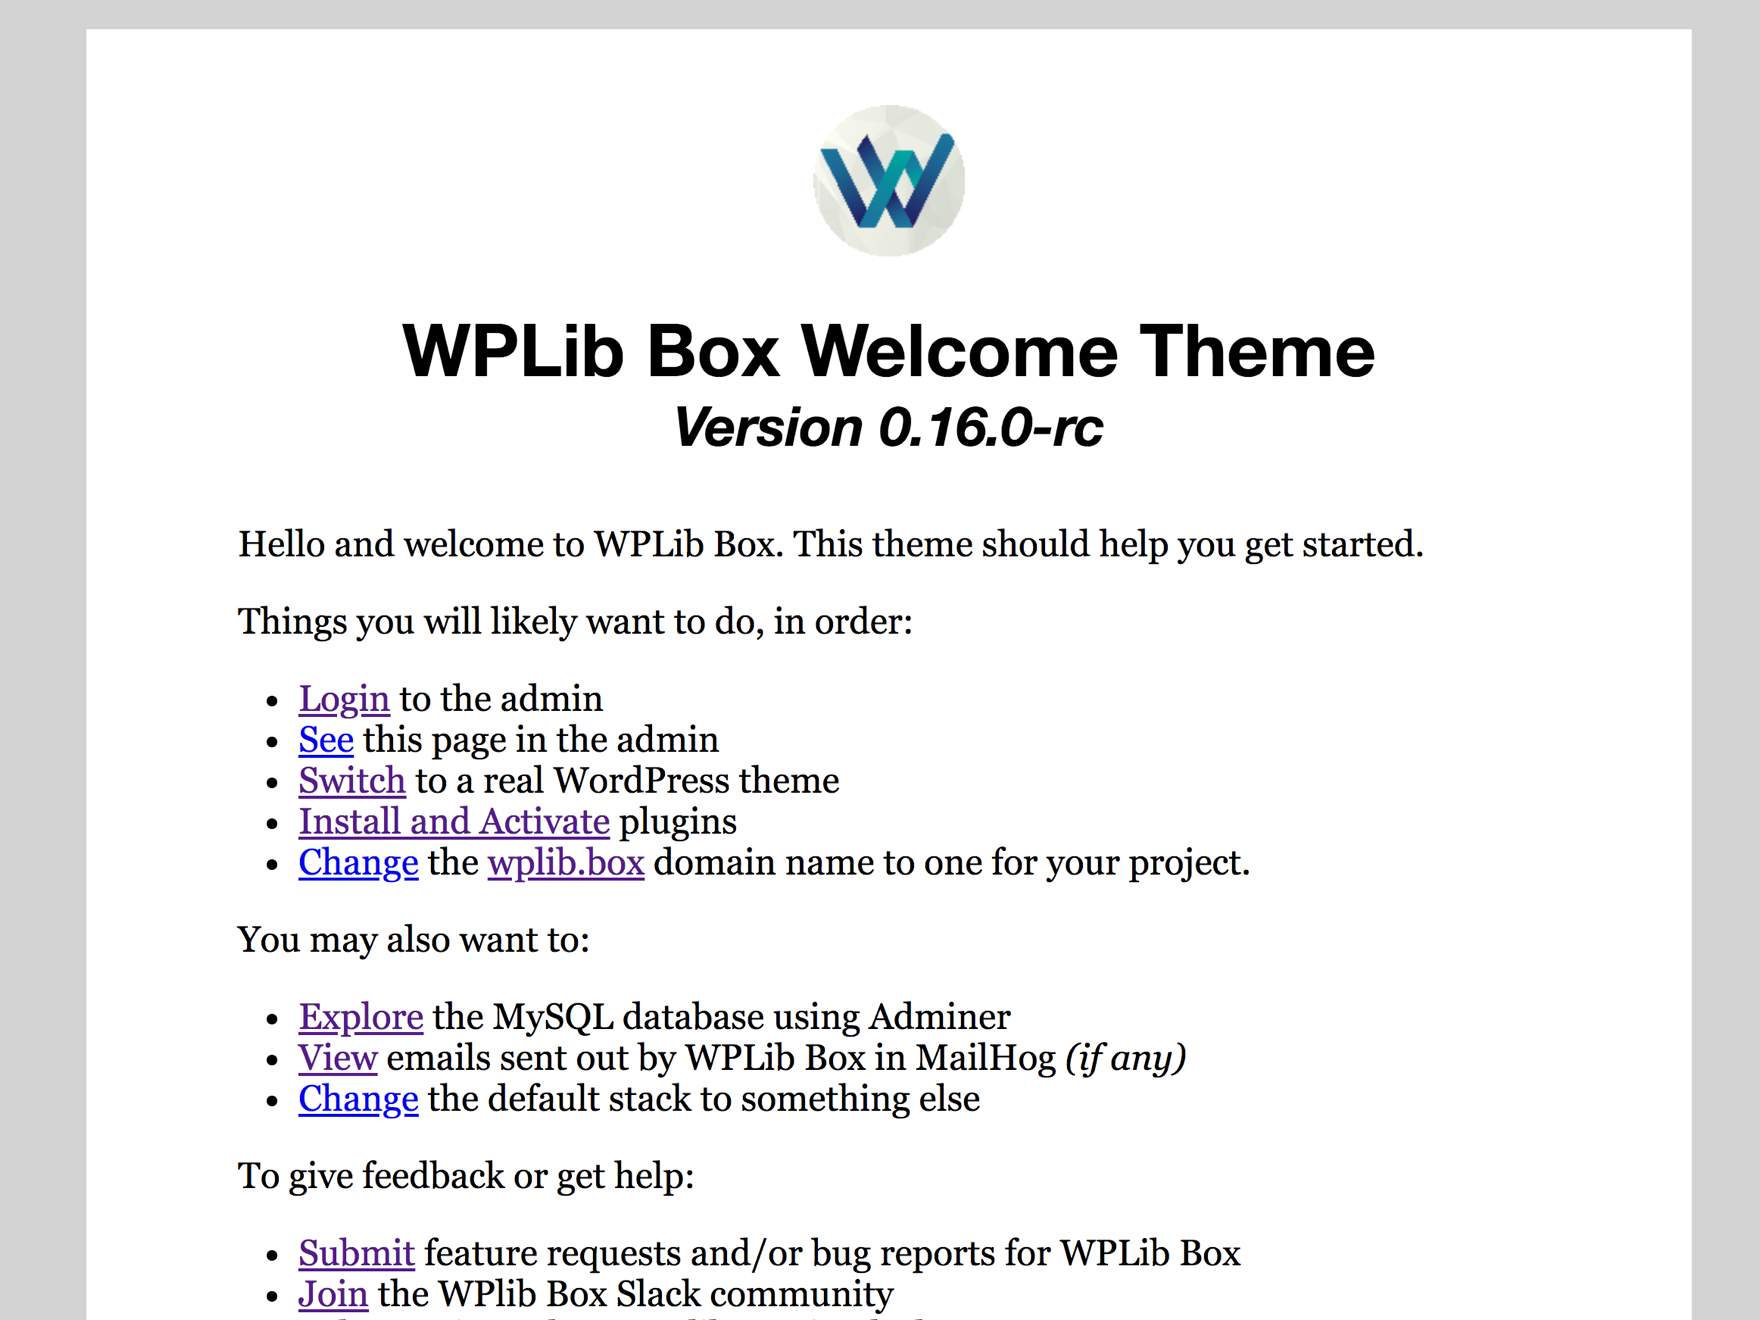
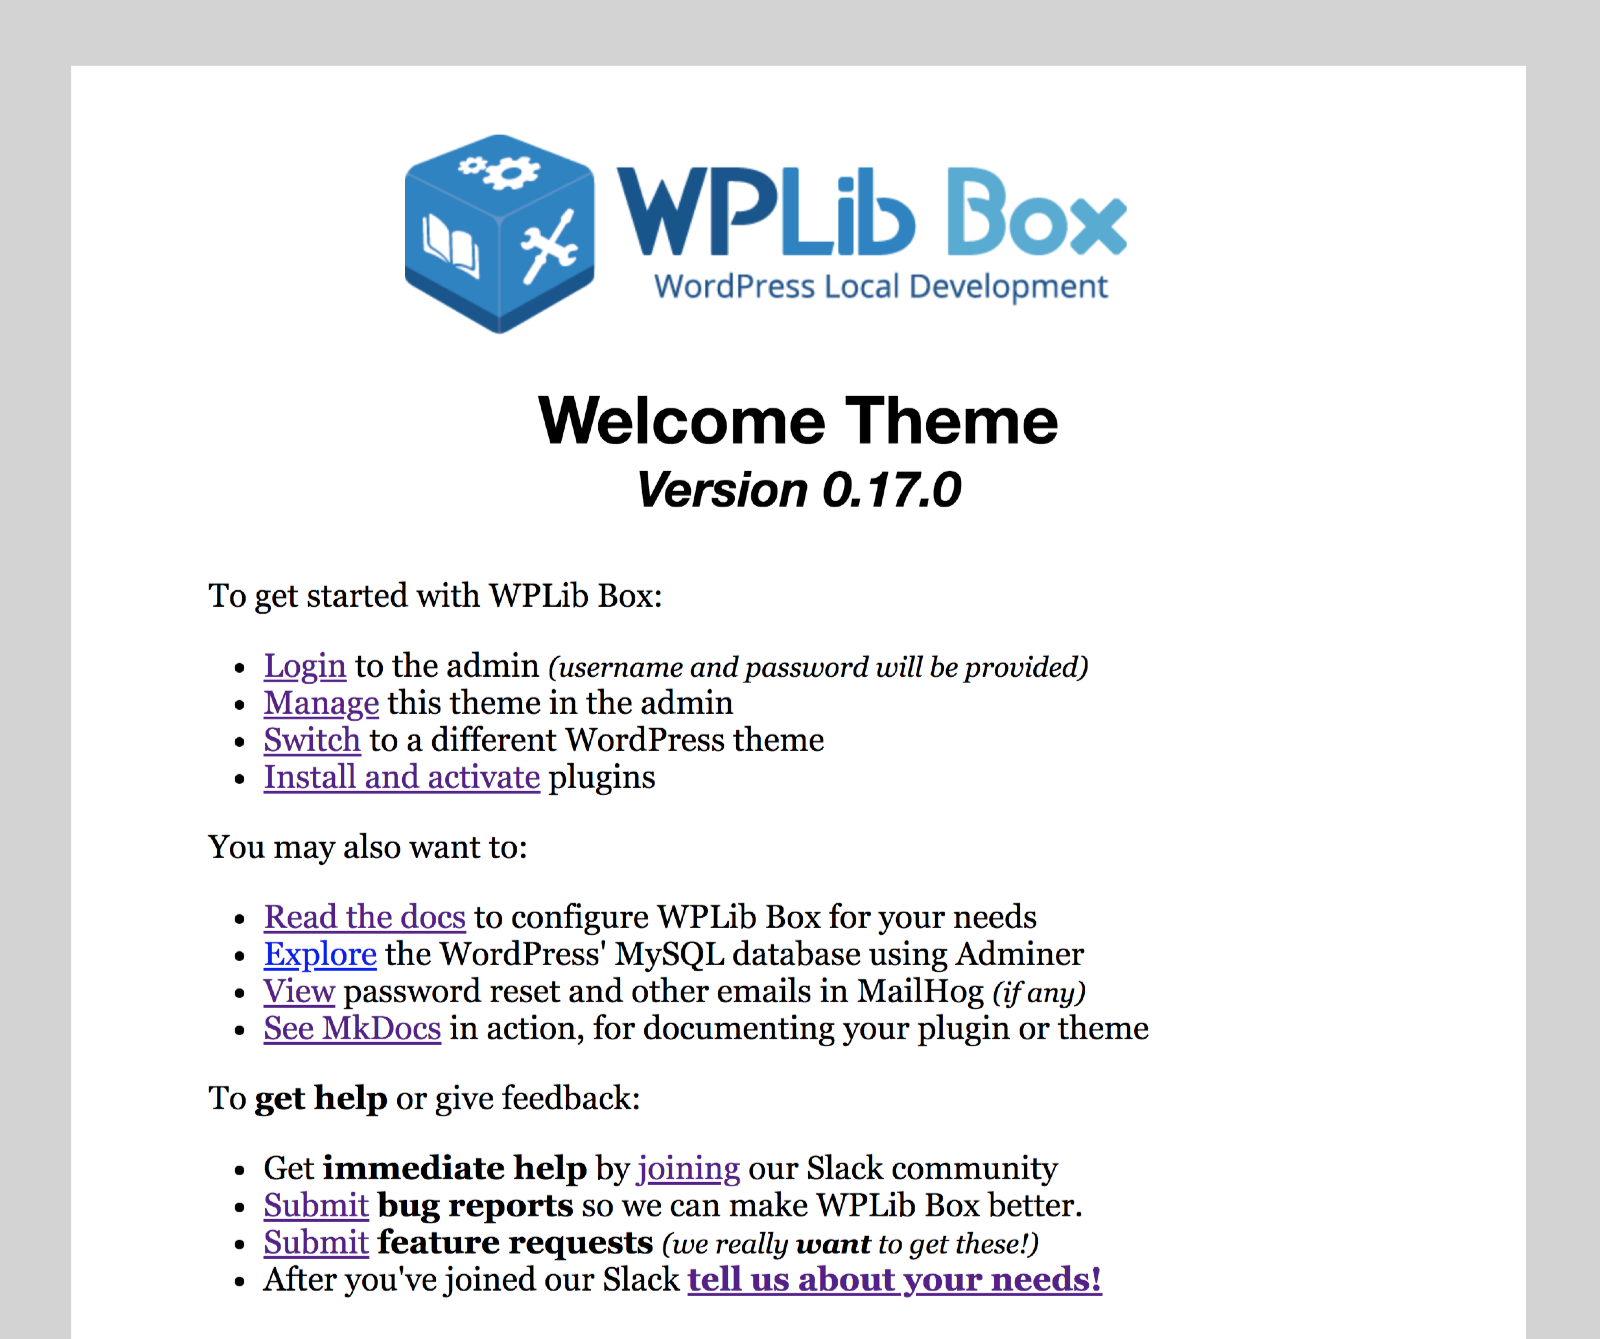
Wordsmithed the starter theme.

Changed region(s): [[0.0312, 0.0, 0.9688, 1.0]]

diff --git a/www/wp-content/themes/wplib-box-welcome/index.php b/www/wp-content/themes/wplib-box-welcome/index.php
@@ -18,6 +18,7 @@ h1,h2 { font-family: "Helvetica Neue", Arial, Helvetica, "Nimbus Sans L", sans-s
 h1 {margin-bottom:0;}
 h2 {margin:0 auto 42px;font-style: italic;}
 #content { padding: 0 50px; margin: 0 auto; text-align: left;}
+em { font-size:0.85em; }
 </style>
 </head>
 <body>
@@ -27,31 +28,36 @@ h2 {margin:0 auto 42px;font-style: italic;}
         <h1>Welcome Theme</h1>
         <h2>Version 0.17.0</h2>
         <div id="content">
-            <p>Hello and welcome to WPLib Box. This theme should help you get started.</p>
-            <p>Things you will likely want to do, in order:</p>
+            <p>To get started with WPLib Box:</p>
             <ul>
-                <li><a href="<?php echo site_url( '/wp-login.php' ); ?>" target="_blank">Login</a> to the admin</li>
-                <li><a href="#" target="_blank">See</a> this page in the admin</li>
-                <li><a href="<?php echo admin_url( '/themes.php' ); ?>" target="_blank">Switch</a> to a real WordPress theme</li>
+                <li><a href="<?php echo site_url( '/wp-login.php' ); ?>" target="_blank">Login</a> to the admin <em>(username and password will be provided)</em></li>
+                <li><a href="<?php echo site_url( '/wp-admin/themes.php?theme=wplib-box-welcome' ); ?>" target="_blank">Manage</a> this theme in the admin</li>
+                <li><a href="<?php echo admin_url( '/themes.php' ); ?>" target="_blank">Switch</a> to a different WordPress theme</li>
                 <li><a href="<?php echo admin_url( '/plugins.php' ); ?>" target="_blank">Install and activate</a> plugins</li>
+                <!--
                 <li><a href="#" target="_blank">Change</a> the <a href="http://wplib.box" target="_blank">wplib.box</a> domain name to one for your project.</li>
                 <li><a href="#" target="_blank">Disconnect</a> the <a href="https://github.com/wplib/wplib-box" target="_blank">WPLib Box GitHub repository</a> from your project</li>
+                -->
             </ul>
 
-            <p>You may also need to:</p>
+            <p>You may also want to:</p>
             <ul>
+                <li><a href="http://wplib.org/box/" target="_blank">Read the docs</a> to configure WPLib Box for your needs</li>
                 <li><a href="http://adminer.wplib.box?server=172.18.0.1&username=wordpress&db=wordpress" target="_blank">Explore</a> the WordPress' MySQL database using Adminer</li>
-                <li><a href="http://mailhog.wplib.box" target="_blank">View</a> emails sent out by WPLib Box in MailHog <em>(if any)</em></li>
-                <li><a href="#" target="_blank">Enable</a> a different stack <em>(vs. Nginx/MySQL/PHP7/Redis)</em></li>
-                <li><a href="#" target="_blank">Manage</a> your project dependencies using <a href="https://getcomposer.org" target="_blank">Composer</a></li>
-                <li><a href="http://docs.wplib.box" target="_blank">See MkDocs</a> in action, for documenting your plugin or theme.</li>
+                <li><a href="http://mailhog.wplib.box" target="_blank">View</a> password reset and other emails in MailHog <em>(if any)</em></li>
+                <li><a href="http://docs.wplib.box" target="_blank">See MkDocs</a> in action, for documenting your plugin or theme</li>
+                <!--
+                <li><a href="#" target="_blank">Enable</a> a different stack <em>(vs. Nginx/MySQL/PHP7/Redis)</em> <em>(NOT IMPLEMENTED YET)</em></li>
+                <li><a href="#" target="_blank">Manage</a> your project dependencies using <a href="https://getcomposer.org" target="_blank">Composer</a> <em>(NOT IMPLEMENTED YET)</em></li>
+                -->
             </ul>
 
-            <p>And to give feedback or get help:</p>
+            <p>To <strong>get help</strong> or give feedback:</p>
             <ul>
-                <li><a href="https://github.com/wplib/wplib-box/issues/new" target="_blank">Submit</a> feature requests and/or bug reports for WPLib Box</li>
-                <li><a href="https://launchpass.com/wplib" target="_blank">Join</a> the WPLib Box Slack community</li>
-                <li><a href="http://wplib.slack.com" target="_blank">Ask questions</a> about WPLib Box in Slack</li>
+                <li>Get <strong>immediate help</strong> by <a href="https://launchpass.com/wplib" target="_blank">joining</a> our Slack community</li>
+                <li><a href="https://github.com/wplib/wplib-box/issues/new" target="_blank">Submit</a> <strong>bug reports</strong> so we can make WPLib Box better.</li>
+                <li><a href="https://github.com/wplib/wplib-box/issues/new" target="_blank">Submit</a> <strong>feature requests</strong> <em>(we really <strong>want</strong> to get these!)</em></li>
+                <li>After you've joined our Slack <a href="http://wplib.slack.com" target="_blank"><strong>tell us about your needs!</strong></a></li>
             </ul>
 
         </div>
